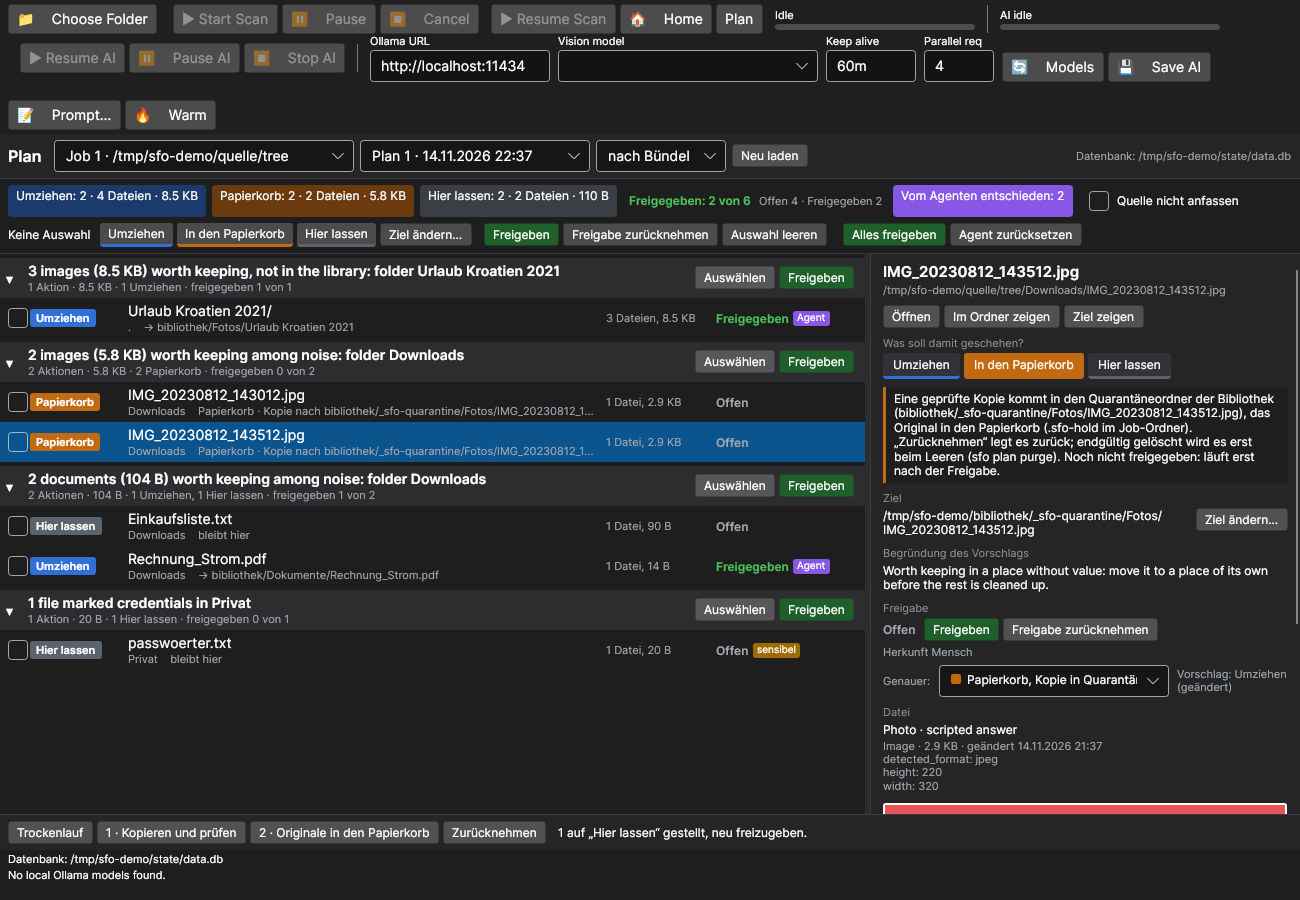
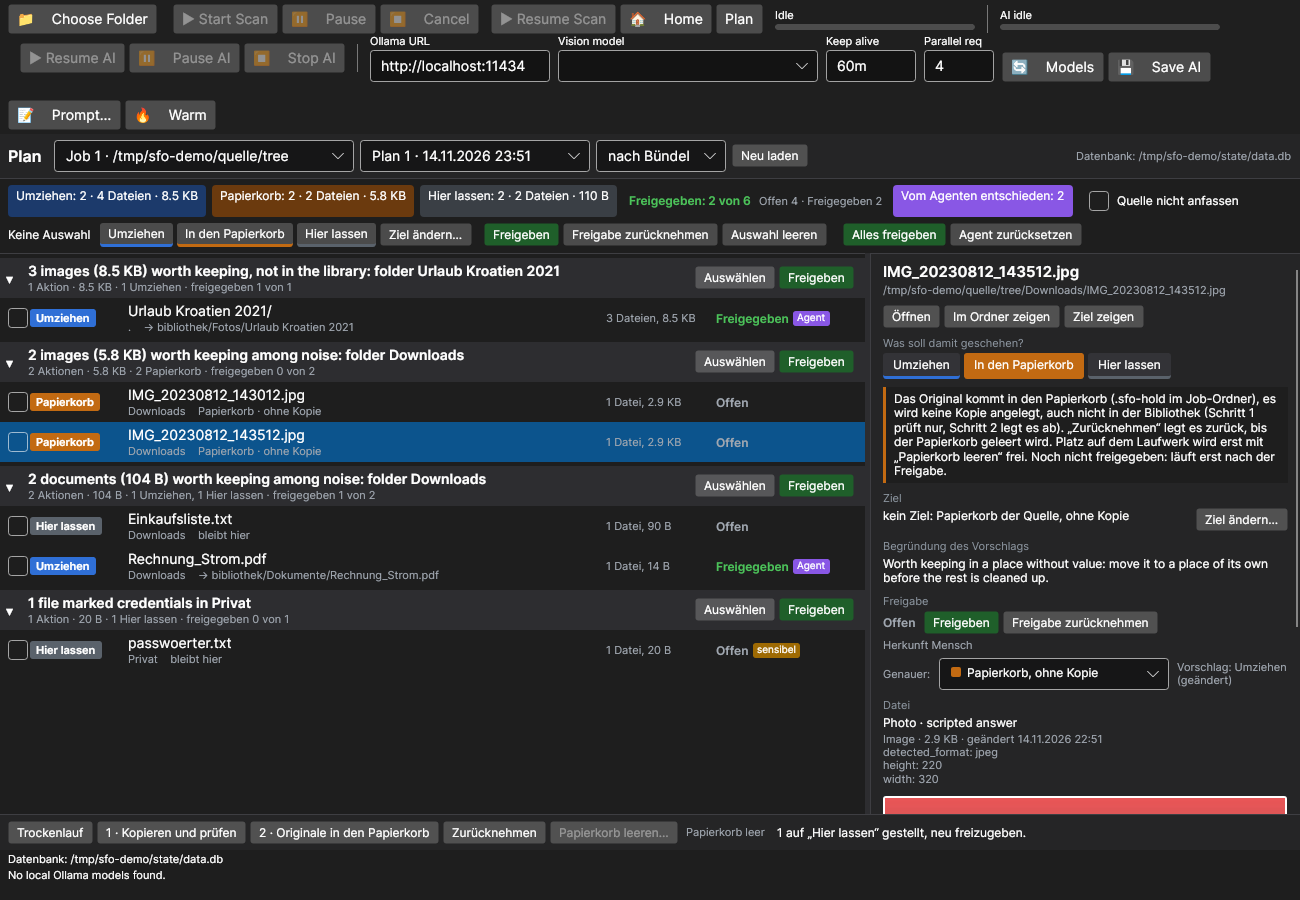
Screenshots of the plan view with discard and the Papierkorb leeren confirmation (#105)
The old frames showed quarantine copies for binned photos, which the
button no longer makes. Rendered headless on Linux from /tmp/sfo-demo.

diff --git a/docs/status-and-roadmap.md b/docs/status-and-roadmap.md
@@ -227,7 +227,9 @@ yet against a real Ollama restart.
   that frees room on the drive of the source, which the summaries say. The
   move notice names a discarded file `removed`.
   _Checked 14.11.2026: `SmartFileOrganizer.Desktop.Tests` 18 passed on Windows
-  (Avalonia headless)._ Limits: a discarded file that was purged cannot be put
+  and on Linux (Avalonia headless), one pass rendered with the confirmation
+  of "Papierkorb leeren" ([screenshot](images/09-confirm-empty-bin.png)); the
+  real window was not driven by hand._ Limits: a discarded file that was purged cannot be put
   back; an older build that rewrites a move notice drops its `removed` lines.
 
 ### Command line
